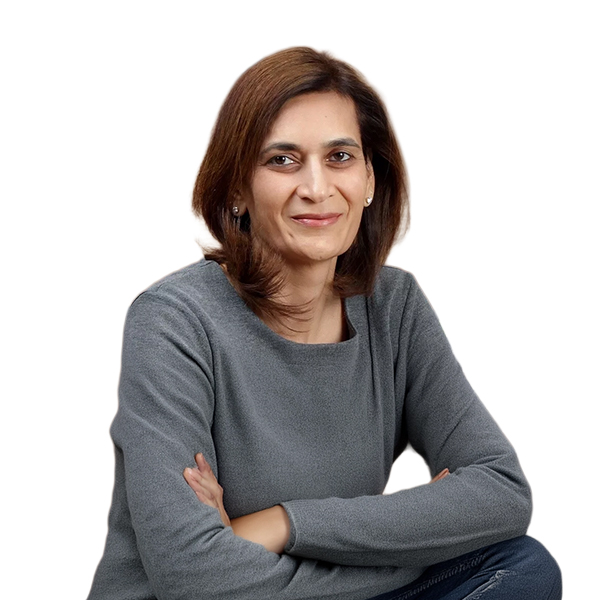
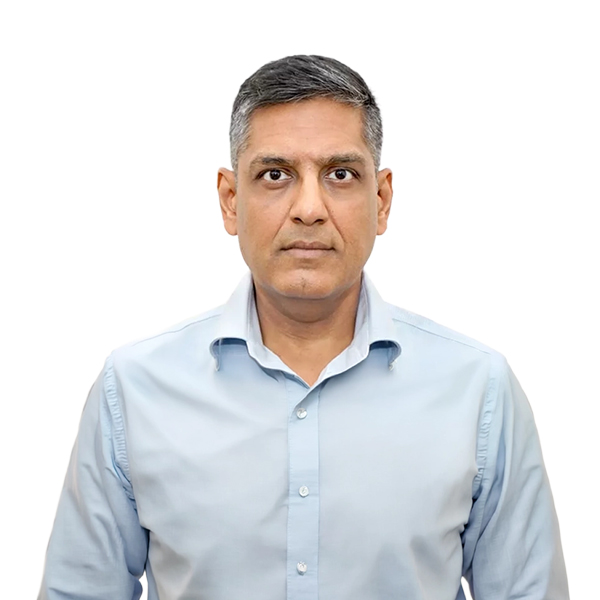
Cross overall changes

diff --git a/public/frontend/assets/css/main.css b/public/frontend/assets/css/main.css
@@ -4267,7 +4267,7 @@ font-weight:700;
     margin-top: 0;
     font-weight: 600;
     line-height: 1.1;
-    text-align: center;
+    text-align: left;
 }
 
 .gw-card:hover .gw-card-title {
@@ -4280,7 +4280,7 @@ font-weight:700;
     font-weight: 400;
     color: #404038;
     line-height: 28px;
-    text-align: center;
+    text-align: left;
     margin-bottom: 0;
 }
 

diff --git a/app/Http/Controllers/Frontend/HomeController.php b/app/Http/Controllers/Frontend/HomeController.php
@@ -154,7 +154,8 @@ class HomeController extends Controller
     public function awards_recognition()
     {
         $categories  = AwardsCategory::orderBy('id')->get();
-        $awardsByCat = AwardsRecognition::with('category')->orderBy('id')->get()->groupBy('awards_category_id');
+        // Newest awards first (match the reference ordering) instead of import order.
+        $awardsByCat = AwardsRecognition::with('category')->orderByDesc('year')->orderByDesc('id')->get()->groupBy('awards_category_id');
         $banner      = AwardsRecognition::orderBy('id')->first(); // banner lives on the first record
 
         return view('frontend.awards_recognition', compact('categories', 'awardsByCat', 'banner'));
